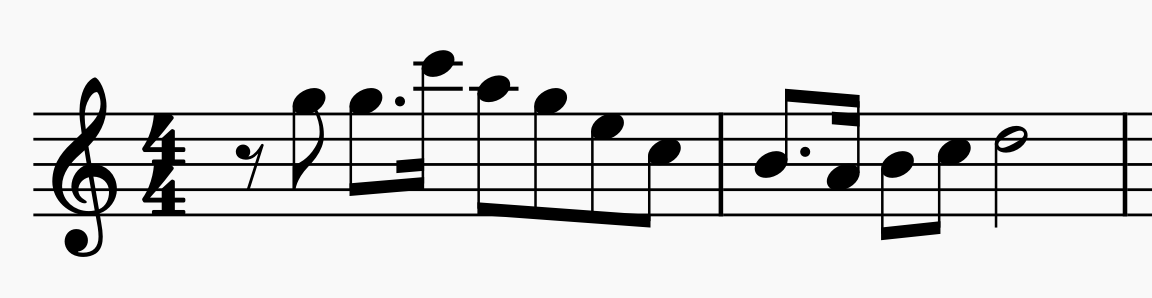
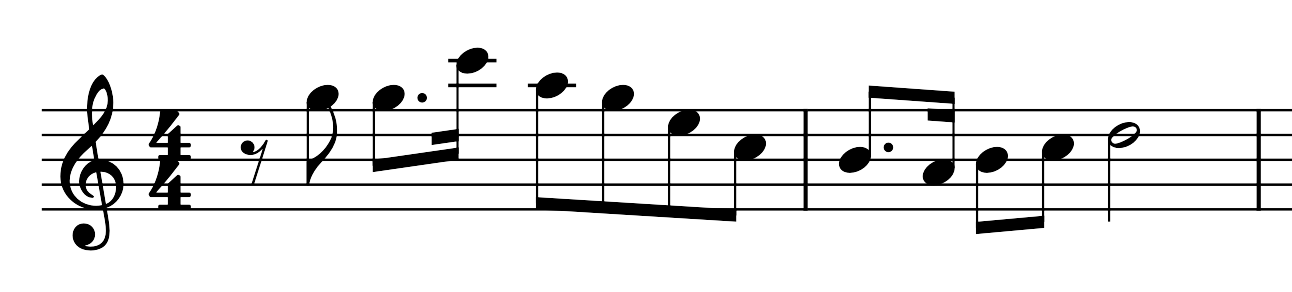
Update diagram with transparent background

Changed region(s): [[0.0312, 0.1541, 1.0, 0.863]]

diff --git a/figures/hmm.tex b/figures/hmm.tex
@@ -1,44 +1,38 @@
-\begin{figure}
-    \centering
-    \begin{tikzpicture}[->, >=stealth, node distance=1cm, auto, scale=1, transform shape]
-        % Piranha Plants score snippet
-        \node [inner sep=0pt] (notes) {
-            \includegraphics[width=7cm]{figures/piranha_plants_snippet.png}
-        };
+\begin{tikzpicture}[->, >=stealth, node distance=1cm, auto, scale=1, transform shape]
+    % Piranha Plants score snippet
+    \node [inner sep=0pt] (notes) {
+        \includegraphics[width=7cm]{figures/piranha_plants_snippet_.png}
+    };
 
-        \node[draw, red, thick, anchor=north west, minimum width=1.5cm, minimum height=1.2cm] (notes1) at ([xshift=1.3cm, yshift=-0.2cm] notes.north west) {};
+    \node[draw, red, thick, anchor=north west, minimum width=1.7cm, minimum height=1.3cm] (notes1) at ([xshift=1.25cm, yshift=-0.1cm] notes.north west) {};
+    \node[draw, blue, thick, anchor=north west, minimum width=1.6cm, minimum height=1.3cm] (notes2) at ([xshift=3cm, yshift=-0.1cm] notes.north west) {};
 
-        \node[draw, blue, thick, anchor=north west, minimum width=1.5cm, minimum height=1.2cm] (notes2) at ([xshift=2.82cm, yshift=-0.2cm] notes.north west) {};
+    % Hidden states
+    \node[draw, circle, below=of notes.west, anchor=west, xshift=0.3cm, yshift=-2.5cm] (s0) {$s_0$};
+    \node[draw, circle, right=of s0] (s1) {$s_1$};
+    \node[draw, circle, right=of s1] (s2) {$s_2$};
+    \node[right=0.5cm of s2] (dots) {\Large $\dots$};
+    \node[draw, circle, right=0.3cm of dots] (st) {$s_t$};
+    
+    % Observation states
+    \node[draw, circle, red, above=of s1] (o1) {$o_1$};
+    \node[draw, circle, blue, above=of s2] (o2) {$o_2$};
+    \node[draw, circle, above=of st] (ot) {$o_t$};
 
-        % Hidden states
-        \node[draw, circle, below=of notes.west, anchor=west, yshift=-2.5cm] (s0) {$s_0$};
-        \node[draw, circle, right=of s0] (s1) {$s_1$};
-        \node[draw, circle, right=of s1] (s2) {$s_2$};
-        \node[right=0.5cm of s2] (dots) {\Large $\dots$};
-        \node[draw, circle, right=0.3cm of dots] (st) {$s_t$};
-        
-        % Observation states
-        \node[draw, circle, red, above=of s1] (o1) {$o_1$};
-        \node[draw, circle, blue, above=of s2] (o2) {$o_2$};
-        \node[draw, circle, above=of st] (ot) {$o_t$};
-
-        % Lines from notes to observation nodes
-        \draw[red, -] ($(notes1.south west) + (0.01, 0)$) -- (o1.west);
-        \draw[red, -] ($(notes1.south east) - (0.01, 0)$) -- (o1.east);
-        \draw[blue, -] ($(notes2.south west) + (0.01, 0)$) -- (o2.west);
-        \draw[blue, -] ($(notes2.south east) - (0.01, 0)$) -- (o2.east);
-        
-        % Hidden state transitions
-        \draw[->] (s0) -- (s1);
-        \draw[->] (s1) -- (s2);
-        \draw[->] (s2) -- (dots);
-        \draw[->] (dots) -- (st);
-        
-        % Observation emissions
-        \draw[->] (o1) -- (s1);
-        \draw[->] (o2) -- (s2);
-        \draw[->] (ot) -- (st);
-    \end{tikzpicture}
-    \caption{Hidden Markov Model for chord generation.}
-    \label{fig:hmm}
-\end{figure}
+    % Lines from notes to observation nodes
+    \draw[red, -] ($(notes1.south west) + (0.01, 0)$) -- (o1.west);
+    \draw[red, -] ($(notes1.south east) - (0.01, 0)$) -- (o1.east);
+    \draw[blue, -] ($(notes2.south west) + (0.01, 0)$) -- (o2.west);
+    \draw[blue, -] ($(notes2.south east) - (0.01, 0)$) -- (o2.east);
+    
+    % Hidden state transitions
+    \draw[->] (s0) -- (s1);
+    \draw[->] (s1) -- (s2);
+    \draw[->] (s2) -- (dots);
+    \draw[->] (dots) -- (st);
+    
+    % Observation emissions
+    \draw[->] (o1) -- (s1);
+    \draw[->] (o2) -- (s2);
+    \draw[->] (ot) -- (st);
+\end{tikzpicture}

diff --git a/sections/02b_chord_generation.tex b/sections/02b_chord_generation.tex
@@ -16,7 +16,12 @@ The model consists of the following components for time step $t \geq 0$:
     \item \textbf{Observation Probabilities} $P(o_t | s_t)$: The probabilities of emitting an observation given a state.
 \end{itemize}
 
-\input{figures/hmm.tex}
+\begin{figure}
+    \centering
+    \input{figures/hmm.tex}
+    \caption{Hidden Markov Model for chord generation.}
+    \label{fig:hmm}
+\end{figure}
 
 In the most basic case, states and observations can be mapped to integer indices such that the transition and observation probabilities can be represented as matrices. The model can then be solved using the Viterbi algorithm, which is a dynamic programming algorithm that finds the most likely sequence of hidden states given the observations.
 

diff --git a/report.tex b/report.tex
@@ -33,7 +33,7 @@
 }
 
 \usetikzlibrary{shapes.geometric, shapes.symbols, arrows, positioning, calc, fit, backgrounds}
-\input{flowchart_defs.tex}
+\input{figures/flowchart_defs.tex}
 
 \DeclareMathOperator*{\argmin}{\arg\!\min}
 \DeclareMathOperator*{\argmax}{\arg\!\max}
